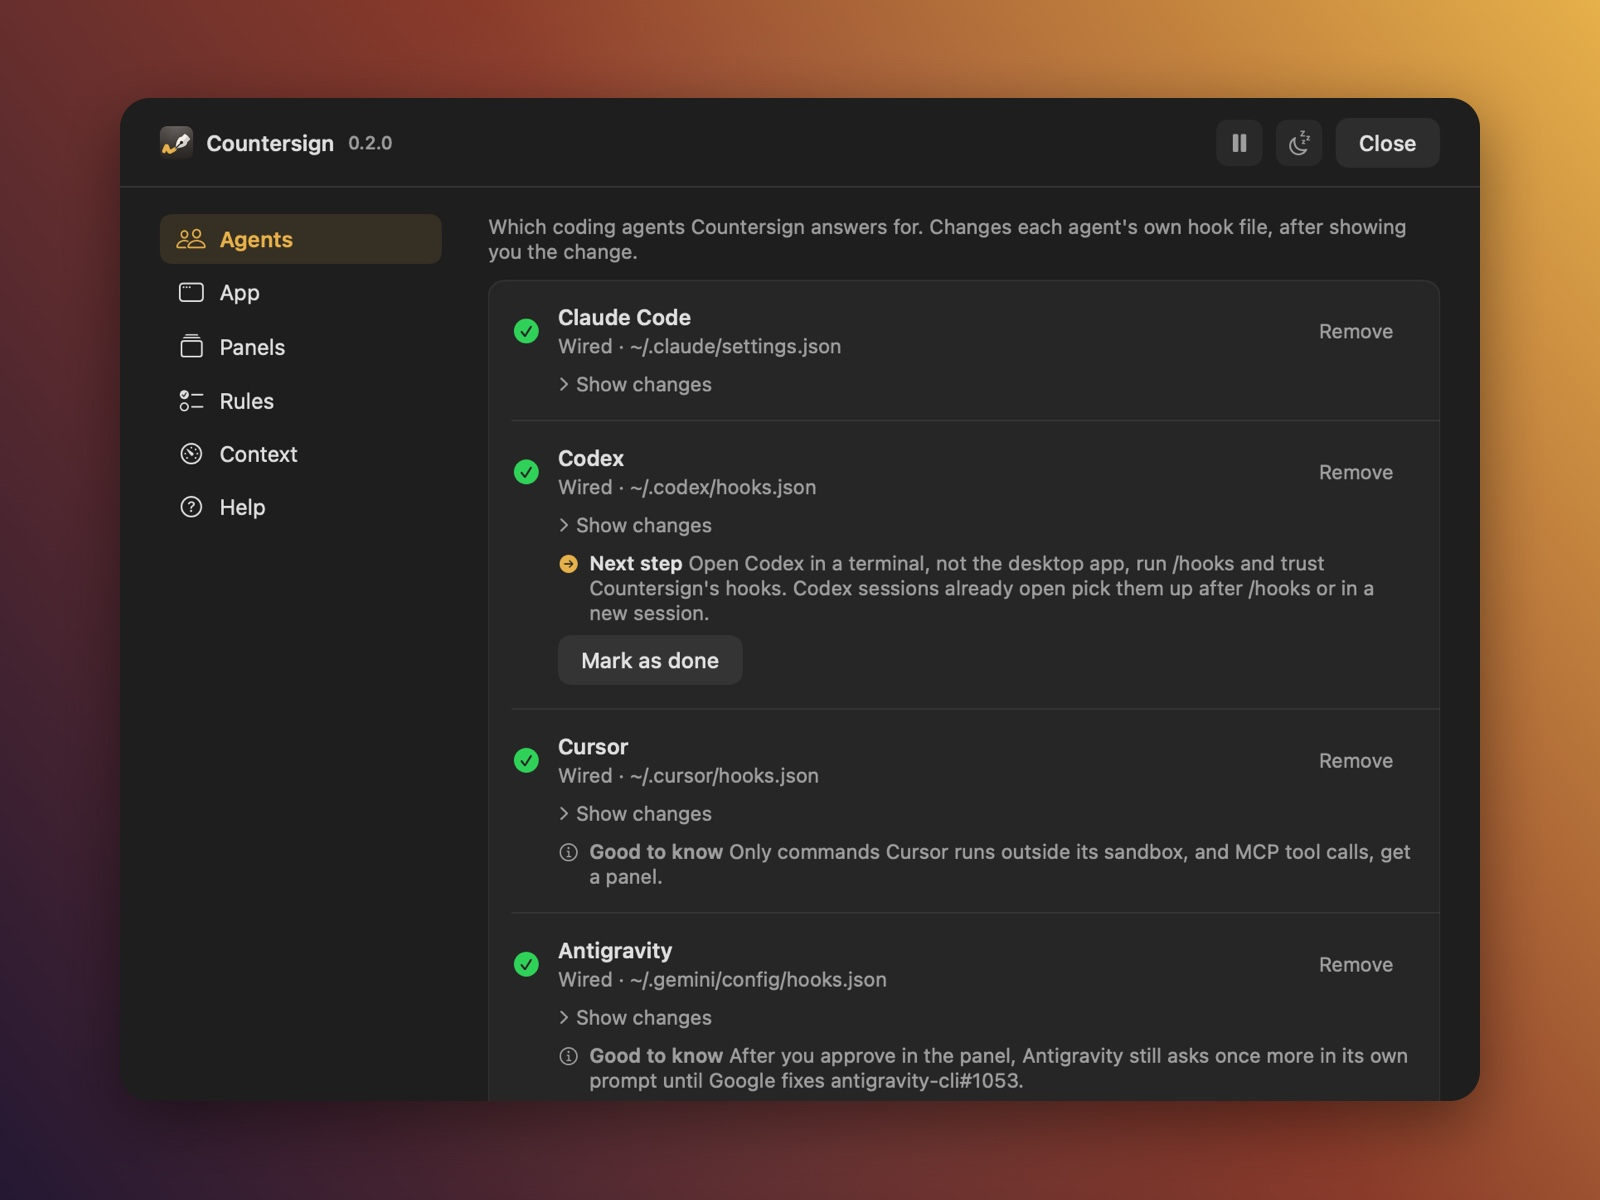
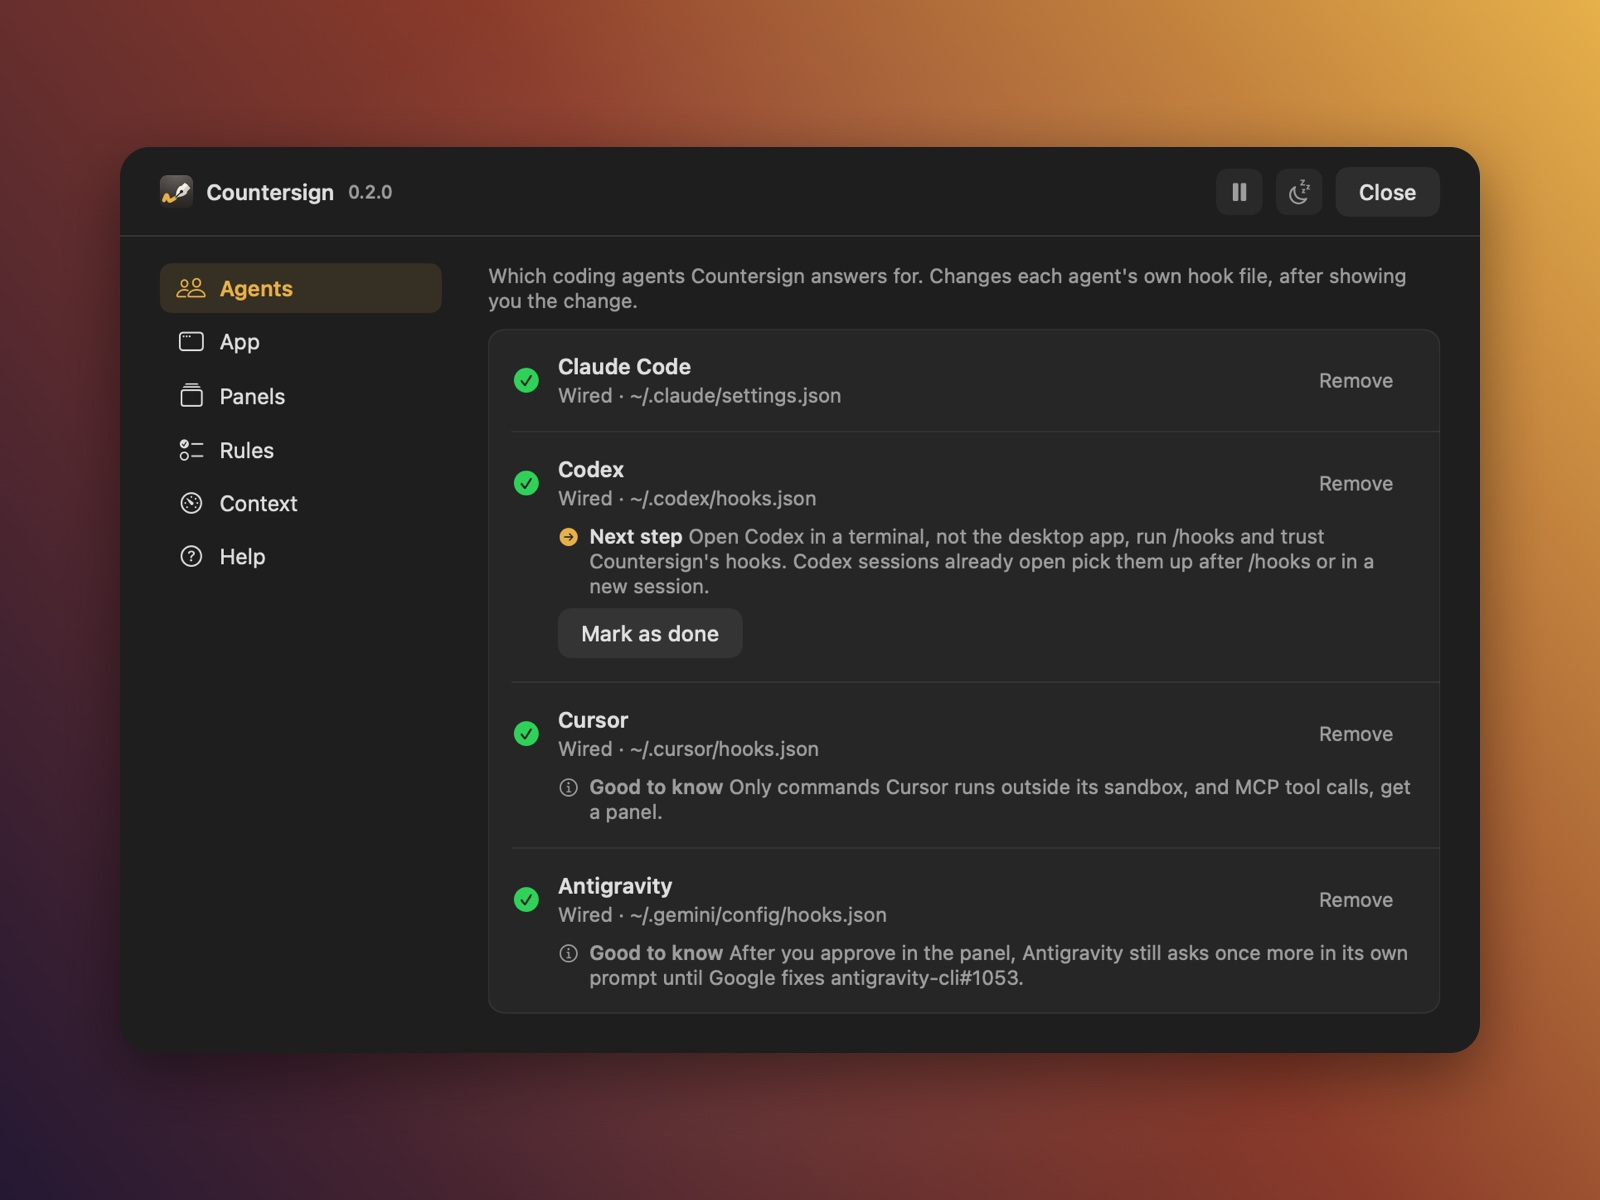
docs: re-render the Settings tile without Show changes
The Agents render is 1092 px tall now. The README crop equals it, so the tile keeps the Agents card's bottom border, which the 1210 px crop had cut.

diff --git a/docs/screenshots.md b/docs/screenshots.md
@@ -138,9 +138,11 @@ render as `<out-dir>/settings-<appearance>.png` and the crop as
 `CGImage.cropping(to:)` to the full width and the given height, measured from the top-left corner
 of the render. That height is `settings_readme_crop_height`, the one named value at the top of
 `render.sh`, in pixels at the render's 2x scale (points × 2; the render is 1640 px wide and as
-tall as the Agents tab's content, 1276 px in 0.2.0). It is pinned by rendering and looking, not
-computed from the layout, since it has to land just below the Agents card's bottom border, with the
-page background showing beneath it and nothing else —
+tall as the Agents tab's content, 1092 px in 0.2.0). Nothing follows the Agents card in 0.2.0, so
+the crop equals the render's height and keeps the content's 48 px of page background below the
+card. It is pinned by rendering and looking, not computed from the layout, since it has to land
+below the Agents card's bottom border, with the page background showing beneath it and nothing
+else —
 **re-check it, by rendering and looking, whenever the Settings layout changes.** `crop-top.swift`
 refuses a height taller than the render, so a layout that gets shorter stops `render.sh` rather
 than producing a wrong image.
